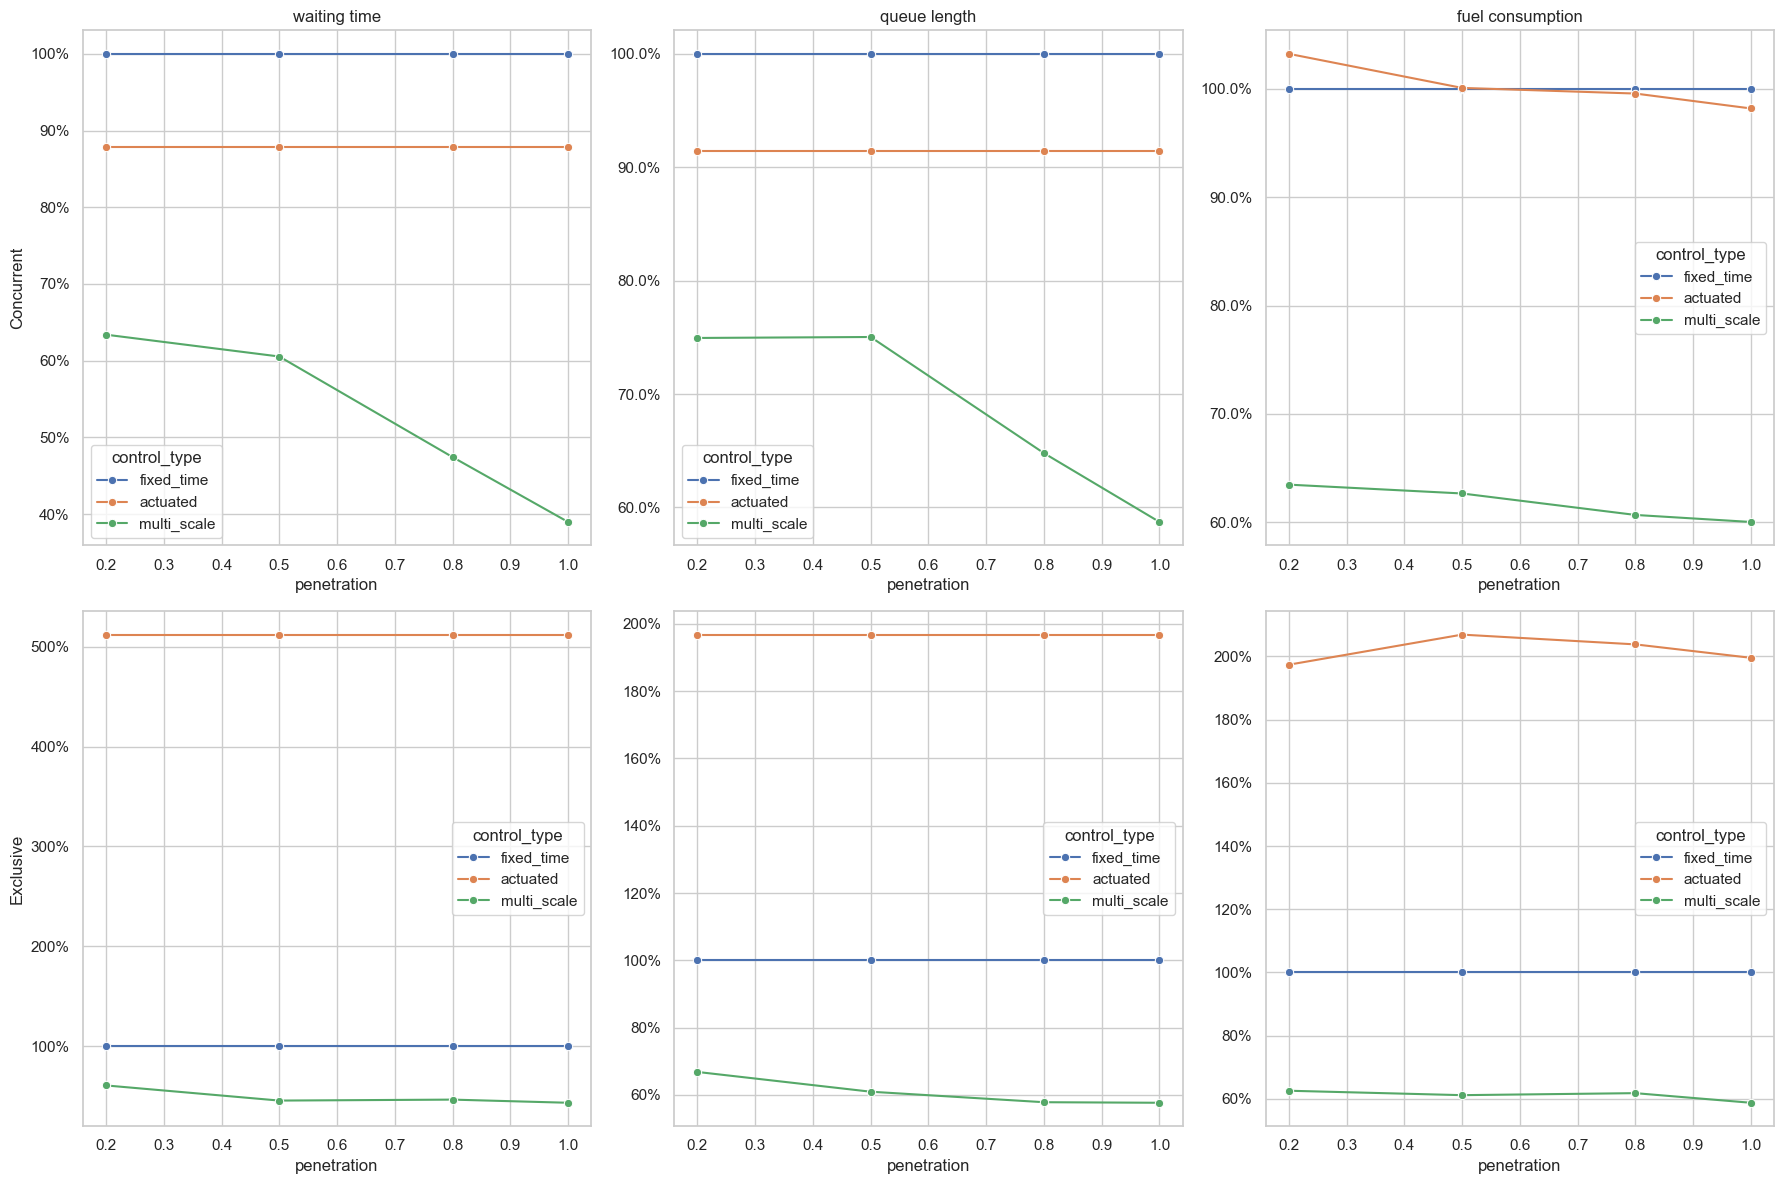
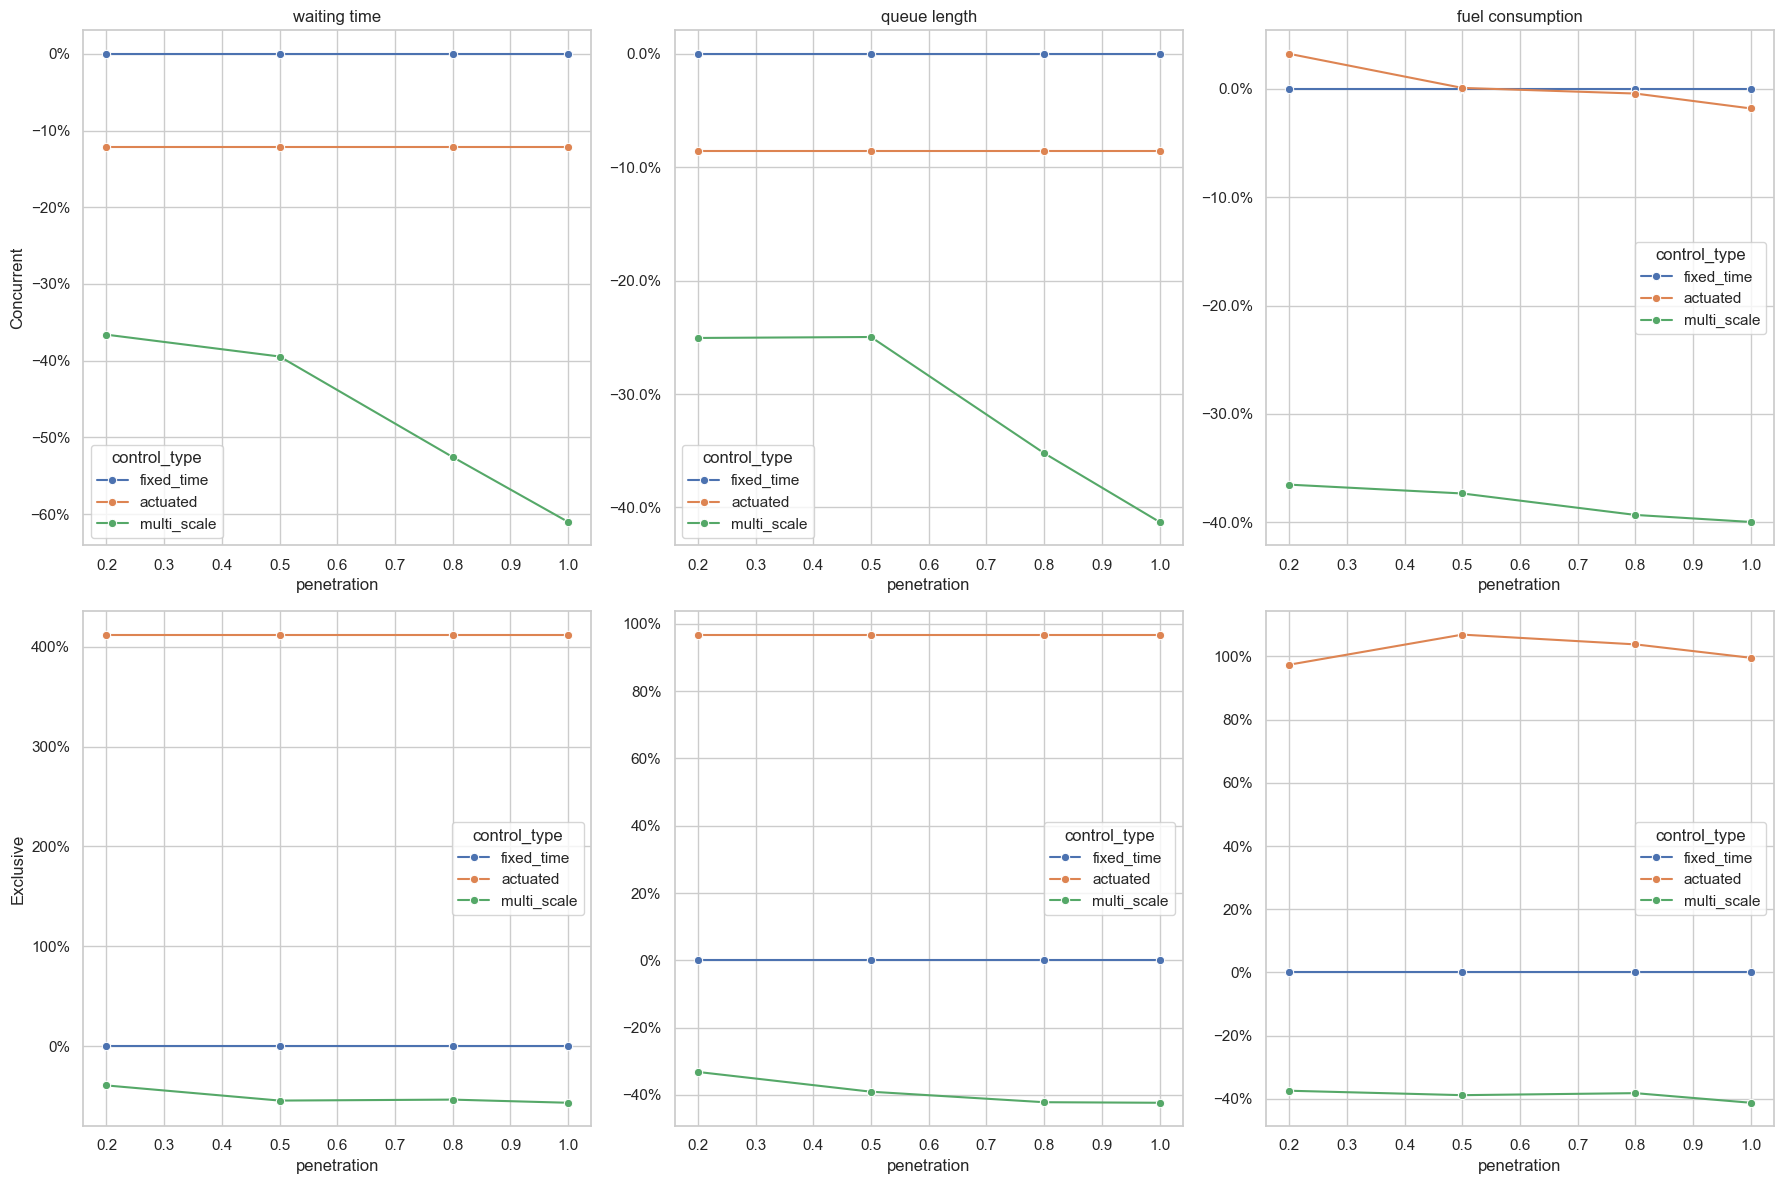
Update code for relative change

diff --git a/plots/plots.py b/plots/plots.py
@@ -97,6 +97,32 @@ def norm_by_fixed_time(df, cols_list, grp_cols):
             norm_df.loc[grp_data.index, col] /= fixed_time_values.values
     return norm_df
 
+def rel_percent_by_fixed_time(df, cols_list, grp_cols):
+    """
+    Calculate the relative percentage of specified columns based on 'fixed_time' control_type values within groups.
+
+    Parameters:
+    - df: DataFrame, the input data.
+    - cols_list: list, columns to calculate relative percentage for.
+    - grp_cols: list, columns to group by.
+
+    Returns:
+    - DataFrame, the DataFrame with relative percentages.
+    """
+    relative_df = df.copy()
+    
+    # Group by the specified columns
+    grped = df.groupby(grp_cols)
+    
+    for col in cols_list:
+        # Calculate relative percentage within each group
+        relative_df[col] = grped[col].transform(
+            lambda x: ((x - x[df.loc[x.index, 'control_type'] == 'fixed_time'].values[0]) / 
+                       x[df.loc[x.index, 'control_type'] == 'fixed_time'].values[0])
+        )
+    
+    return relative_df
+
 def plot_selected_columns(df, x, y, kind='line', marker='o', **kwargs):
     """
     Plots selected columns x and y from a DataFrame using seaborn.

diff --git a/main.py b/main.py
@@ -116,5 +116,5 @@ if __name__ == "__main__":
     df = plots.read_results_files('Results')
     focus_col_list = ['waiting_time', 'queue_length', 'fuel_consumption']
     plots.plot_matrix(df, focus_col_list, 'penetration', export=True, filename='maxtrix plot-default intersection-absolute value.png')
-    df_avg = plots.norm_by_fixed_time(df, focus_col_list, ['ped_phasing', 'penetration'])
+    df_avg = plots.rel_percent_by_fixed_time(df, focus_col_list, ['ped_phasing', 'penetration'])
     plots.plot_matrix(df_avg, focus_col_list, 'penetration', percentage=True, export=True, filename='maxtrix plot-default intersection-percentage.png')
